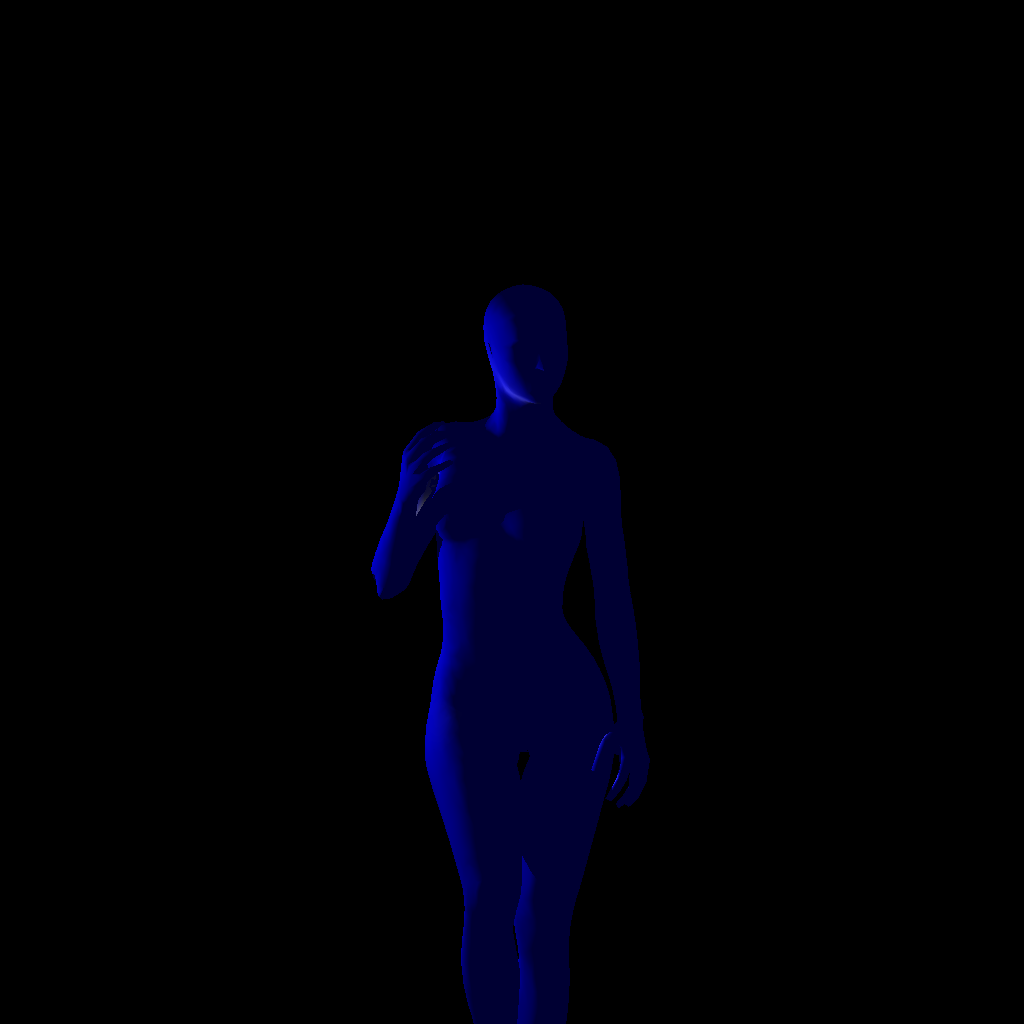
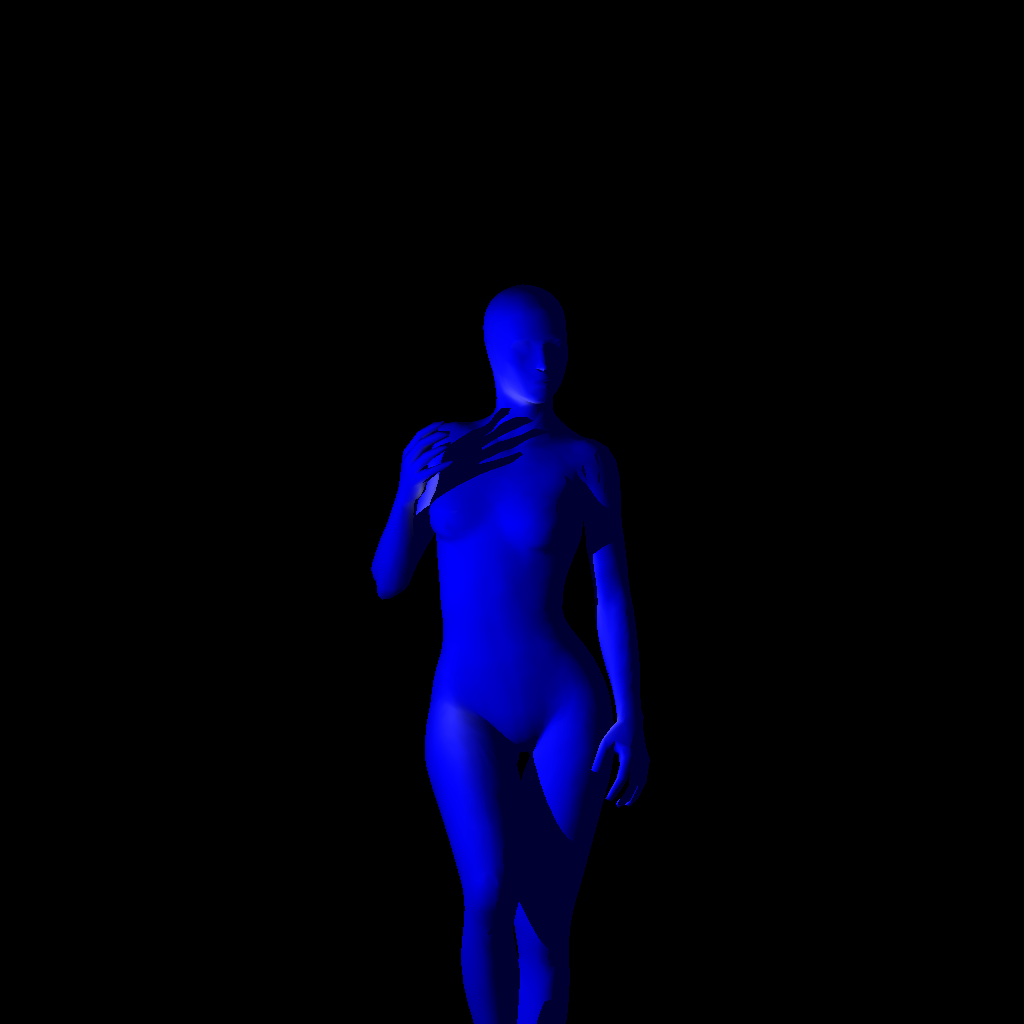
Move Light

Changed region(s): [[0.3438, 0.2812, 0.625, 1.0]]

diff --git a/main.swift b/main.swift
@@ -52,10 +52,6 @@ func *(lhs: Vector, rhs: Vector) -> Vector {
     return Vector(x: x, y: y, z: z)
 }
 
-func max(lhs: Vector, rhs: Vector) -> Vector {
-    return Vector(x: max(lhs.x, rhs.x), y: max(lhs.y, rhs.y), z: max(lhs.z, rhs.z))
-}
-
 typealias Vertex = (position: Vector, normal: Vector)
 
 struct Ray {
@@ -136,7 +132,7 @@ extension Int {
 }
 
 let width = 1024, height = 1024
-let light = Vector(x: 1, y: 0, z: 0)
+let light = Vector(x: 1, y: -1, z: 0)
 let lightColor = Vector(x: 0, y: 0, z: 1)
 
 var v: [Vertex] = []
@@ -206,7 +202,7 @@ dispatch_apply(height, dispatch_get_global_queue(0, 0)) { i in
                     let kd = max(l * n, 0)
                     let ks = pow(max(n * h, 0), 5)
                     let newColor = lightColor * (kd * 0.8) + Vector(x: 0.3, y: 0.3, z: 0.3) * ks
-                    color = max(color, newColor)
+                    color += newColor * reflection
                 }
                 let newDirection = ray.direction - n * ((n * ray.direction) as Float) * 2
                 ray = Ray(origin: intersection, direction: ray.direction)

diff --git a/README.md b/README.md
@@ -1,9 +1,9 @@
-# SwiftRayTracer
+#SwiftRayTracer
 
 A simple ray-tracer in Phong shading model
 
 
-## Implementation
+##Implementation
 
 A wavefront(obj) file with vertexes and faces (triangles) is read.
 
@@ -12,7 +12,7 @@ Grand Central Dispatch is used for parallelism.
 A PNG or PMM picture is generated by ray tracing.
 
 
-## Parameters
+##Parameters
 
 ###Global
 
@@ -25,3 +25,18 @@ light, lightColor: Vector
 ray: Ray
 
 ambient = 0.2, diffuse = 0.8, specular = 0.3, reflection = 0.8
+
+
+##Result
+
+###1024x1024
+
+![1024x1024](1.png)
+
+1min on MacBook Pro (Retina, 15-inch, Mid 2012)
+
+###4096x4096
+
+![4096x4096](4096x4096.png)
+
+15min on MacBook Pro (Retina, 15-inch, Mid 2012)
